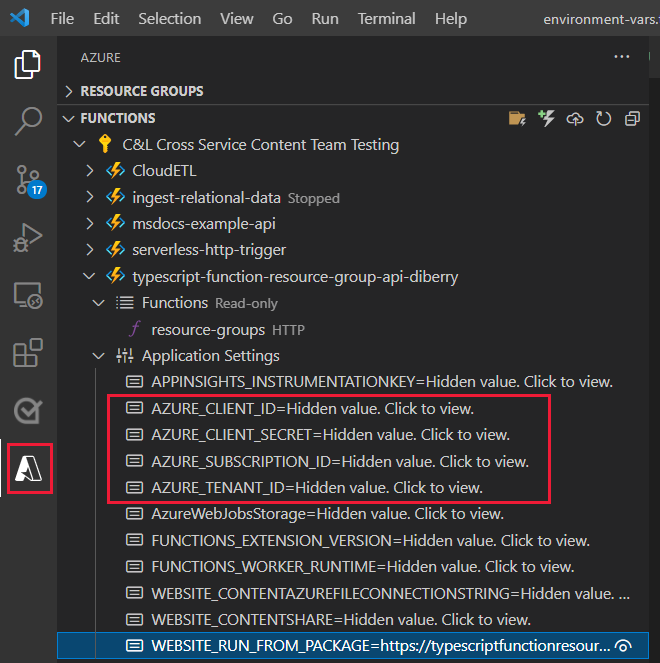
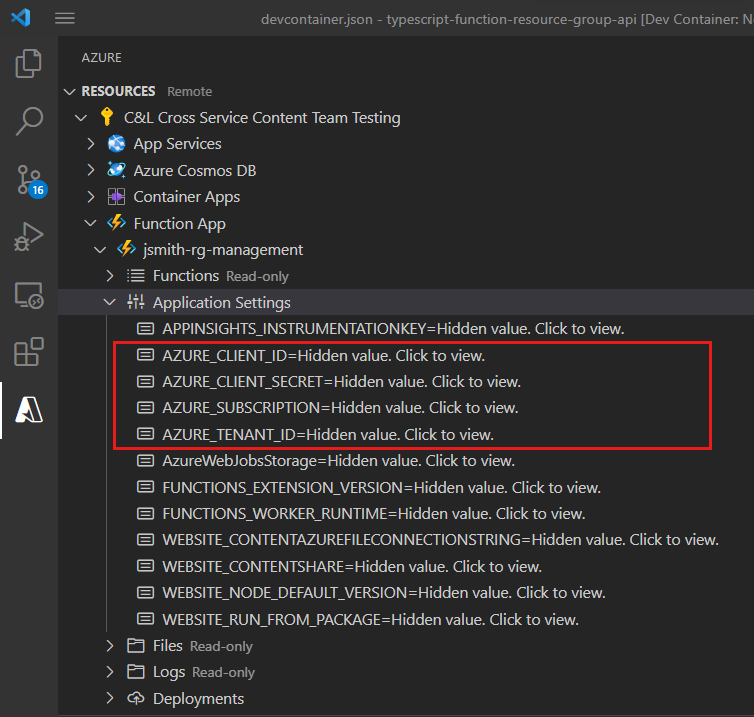
edits

diff --git a/articles/javascript/how-to/with-web-app/azure-function-resource-group-management.md b/articles/javascript/how-to/with-web-app/azure-function-resource-group-management.md
@@ -25,7 +25,7 @@ Features and functionality:
 
 ## Prerequisites
 
-- [Node.js and npm](https://nodejs.org/en/download) installed to your local machine.
+- [Node.js and npm](https://nodejs.org/en/download) installed to your local machine. Your local development environment version of Node.js should match one of the available [cloud versions]().
 - [Visual Studio Code](https://code.visualstudio.com/) installed to your local machine. 
     - [Azure Function](https://marketplace.visualstudio.com/items?itemName=ms-azuretools.vscode-azurefunctions) to deploy a Function app to Azure.
 - [Azure CLI](/cli/azure/install-azure-cli) installed to your local machine.
@@ -88,7 +88,7 @@ An Azure service principal provides access to Azure without having to use your p
 1. In a bash terminal, get your subscriptions and find the subscription ID you want to use. The following query returns the subscription Id, subscription name, and tenant Id sort by subscription name.
 
     ```azurecli
-     az account list --query "sort_by([].{Name:name, SubscriptionId:id, TenantId:tenantId}, &Name)" --output table
+    az account list --query "sort_by([].{Name:name, SubscriptionId:id, TenantId:tenantId}, &Name)" --output table
     ```
 
 1. Copy the subscription Id to the previous temporary file. You will need this setting later. 
@@ -120,20 +120,16 @@ Use Visual Studio Code to create a local Function app.
 
     |Prompt|Value|
     |--|--|
-    |Create new project|Accept the default name, `typescript-function-resource-group-api`.|
+    |Select the folder that will contain your function project|Select the default (current) directory|
     |Select a language| Select **TypeScript**.|
+    |Select a Typescript programming model|Select model V3|
     |Select a template for your project's first function|Select **HTTP trigger**.|
-    |Create a new project|Select `Model v4 (Preview)`.|
     |Create new HTTP trigger|Enter the API name of `resource-groups`. |
+    |Authorization level|Select **anonymous**. If you continue with this project after this article, change the authorization level to the function. Learn more about [Function-level authorization](/azure/azure-functions/security-concepts#function-access-keys).|
 
 
-    The project boilerplate is created.
+    The project boilerplate is created and the dependencies are installed.
 
-1. In a Visual Studio Code **integrated bash terminal**, opened with <kbd>Ctrl</kbd> + <kbd>Shift</kbd> + <kbd>`</kbd>, install the project dependencies:
-
-    ```bash
-    npm install
-    ```
 
 #### Add service principal settings to local.settings.json file
 
@@ -141,7 +137,7 @@ Use Visual Studio Code to create a local Function app.
 
     :::code language="JSON" source="~/../js-e2e-azure-resource-management-functions/local.settings.json" highlight="6-9":::
  
-1. Refer to your temporary copy of settings from the previous article to edit the _required_ environment variables. These environment variables are **REQUIRED for the context to use DefaultAzureCredential**. 
+1. Refer to your settings from the previous section to add the _required_ environment variables. These environment variables are **REQUIRED for the context to use DefaultAzureCredential**. 
 
    * `AZURE_TENANT_ID`: `tenant` from the service principal output above. 
    * `AZURE_CLIENT_ID`: `appId` from the service principal output above.
@@ -210,7 +206,25 @@ npm install @azure/identity @azure/arm-resources
     curl http://localhost:7071/api/resource-groups > resource-groups.json
     ```
 
-    The response includes `status` and a `list` of all resource groups in your subscription.
+1. The response includes `status` and a `list` of all resource groups in your subscription.
+
+    ```json
+    {
+      "status": 200,
+      "list": [
+            {
+              "id": "/subscriptions/ABC123/resourceGroups/vmagelo-cloudshell",
+              "name": "jsmith-cloudshell",
+              "type": "Microsoft.Resources/resourceGroups",
+              "properties": {
+                "provisioningState": "Succeeded"
+              },
+              "location": "westeurope"
+            },
+            ... REMOVED FOR BREVITY ...
+        ]
+    }
+    ```
 
 #### Troubleshooting
 
@@ -222,44 +236,49 @@ If you couldn't complete this article, check the following table for issues. If 
 |The app started but you can't get a 200 response.|Make sure your curl command is requesting from the correct local route.|
 |The API returned a 200 response but returned no results.|Use the Visual Studio Code extension for Azure Resources to verify that your subscription has any resource groups. If you don't see any resource groups, don't worry. This tutorial adds an API to create and delete resource groups in your subscription. This API is added after the first deployment of the source code to Azure, so that you learn how to redeploy your code.|
 
+## 3. Create cloud-based Azure Function app
 
-## 3. Deploy resource manager function app
+1. In Visual Studio Code, select the Azure icon to open the **Azure Explorer**.    
+
+1. Select the **+** icon to create a new Azure Function app in the Azure cloud.
+
+    :::image type="content" source="../../media/azure-function-resource-group-management/visual-studio-code-create-function-app-icon.png" alt-text="Visual Studio Code's Azure Explorer with the Azure Function app icon highlighted.":::
+
+1. Select **Create Function App in Azure**.
+1. Enter a **globally unique name** for the new function app. The name must be unique across all Azure functions. For example, `jsmith-rg-management`.
+1. Select the same **Node.js LTS runtime** your selected when you created your local function app. 
+1. Select a geographical **location** close to you such as **West US 3**. 
+1. Wait until the resource is created. You can watch the **Azure: Activity Log** for details.
+
+    :::image type="content" source="../../azure-function-resource-group-management/visual-studio-code-function-creation-activity-log.png" alt-text="Screenshot of Visual Studio Code's Azure activity log showing the resource creation status.":::
+
+## 4. Deploy resource manager function app
 
 Deploy an Azure Function app in Visual Studio Code to manage Azure resource groups. 
 
 #### Use Visual Studio Code extension to deploy to hosting environment
 
-1. In VS Code, select the Azure logo to open the **Azure Explorer**, then under **Functions**, select the blue up arrow to deploy your app:
+1. In VS Code, select the Azure logo to open the **Azure Explorer**, then under **Functions**, select the cloud icon to deploy your app.
 
-    ![Deploy to Azure Functions command](../../media/azure-function-resource-group-management/deploy-app.png)
+    :::image type="content" source="../../media/azure-function-resource-group-management/visual-studio-code-deploy-app.png" alt-text="Screenshot of Visual Studio Code's local Workspace area with the cloud deployment icon highlighted.":::    
 
     Alternately, you can deploy by opening the **Command Palette** with <kbd>Ctrl</kbd> + <kbd>Shift</kbd> + <kbd>p</kbd>, entering `deploy to function app`, and running the **Azure Functions: Deploy to Function App** command.
 
-1. Use the following table to complete the prompt to create a new Azure Function resource.
+1. Select **Deploy to Function app**.
 
-    |Prompt|Value|
-    |--|--|
-    |Selection Function App in Azure|Create new Function App in Azure ...Advanced|
-    |Enter a globally unique name for the new function app|Use your normal naming conventions for the resource. For example, use the name of the local directory, then postpend your email alias or name, such as `typescript-function-resource-group-api-johnsmith`.|
-    |Select a runtime stack.|Node.js - select one of the LTS versions of Node.js.|
-    |Select an OS|Linux|
-    |Select a resource group for new resources|Use your normal naming conventions for the resource group. For example, use the name of the local directory, then postpend your email alias or name, such as `resource-group-johnsmith`.|
-    |Select a location for new resources|Select a location geographically close to you, for example `West US 2`.|
-    |Select a hosting plan|Consumption|
-    |Select a storage account|Create a new storage account|
-    |Enter the name of the new storage account|Accept the default name|
-    |Select an Application Insights resource|Create a new Application Insights resource.|
-    |Enter the name of the new Application Insights resource.|Accept the default name|
-
-    The Application Insights resource is optional but important. This will help you to monitor your function app.
+1. Select the Function App name your created in the previous section.
+1. When asked if you are sure you want to deploy, select **Deploy**.
 
 1. The VS Code **Output** panel for **Azure Functions** shows progress.  When deploying, the entire Functions application is deployed, so changes to all individual functions are deployed at once.
+
+    
 
 #### Configure your Azure app settings
 
 You need to configure your Azure app settings to connect to the Azure Function app. Locally, these settings are in your `local.settings.json` file. This process adds those values to your cloud app.
 
-1. In Visual Studio Code, in the Azure explorer, select your function app, the right-click on **Application Settings** and select **Add New Setting**.
+1. In Visual Studio Code, in the Azure explorer, in the **Resources** section, expand **Function App** then select your function app.
+1. Right-click on **Application Settings** and select **Add New Setting**.
 1. Add the four values from your `local.settings.json` with the exact same name and values.
 
    * `AZURE_TENANT_ID`: `tenant` from the service principal output above. 
